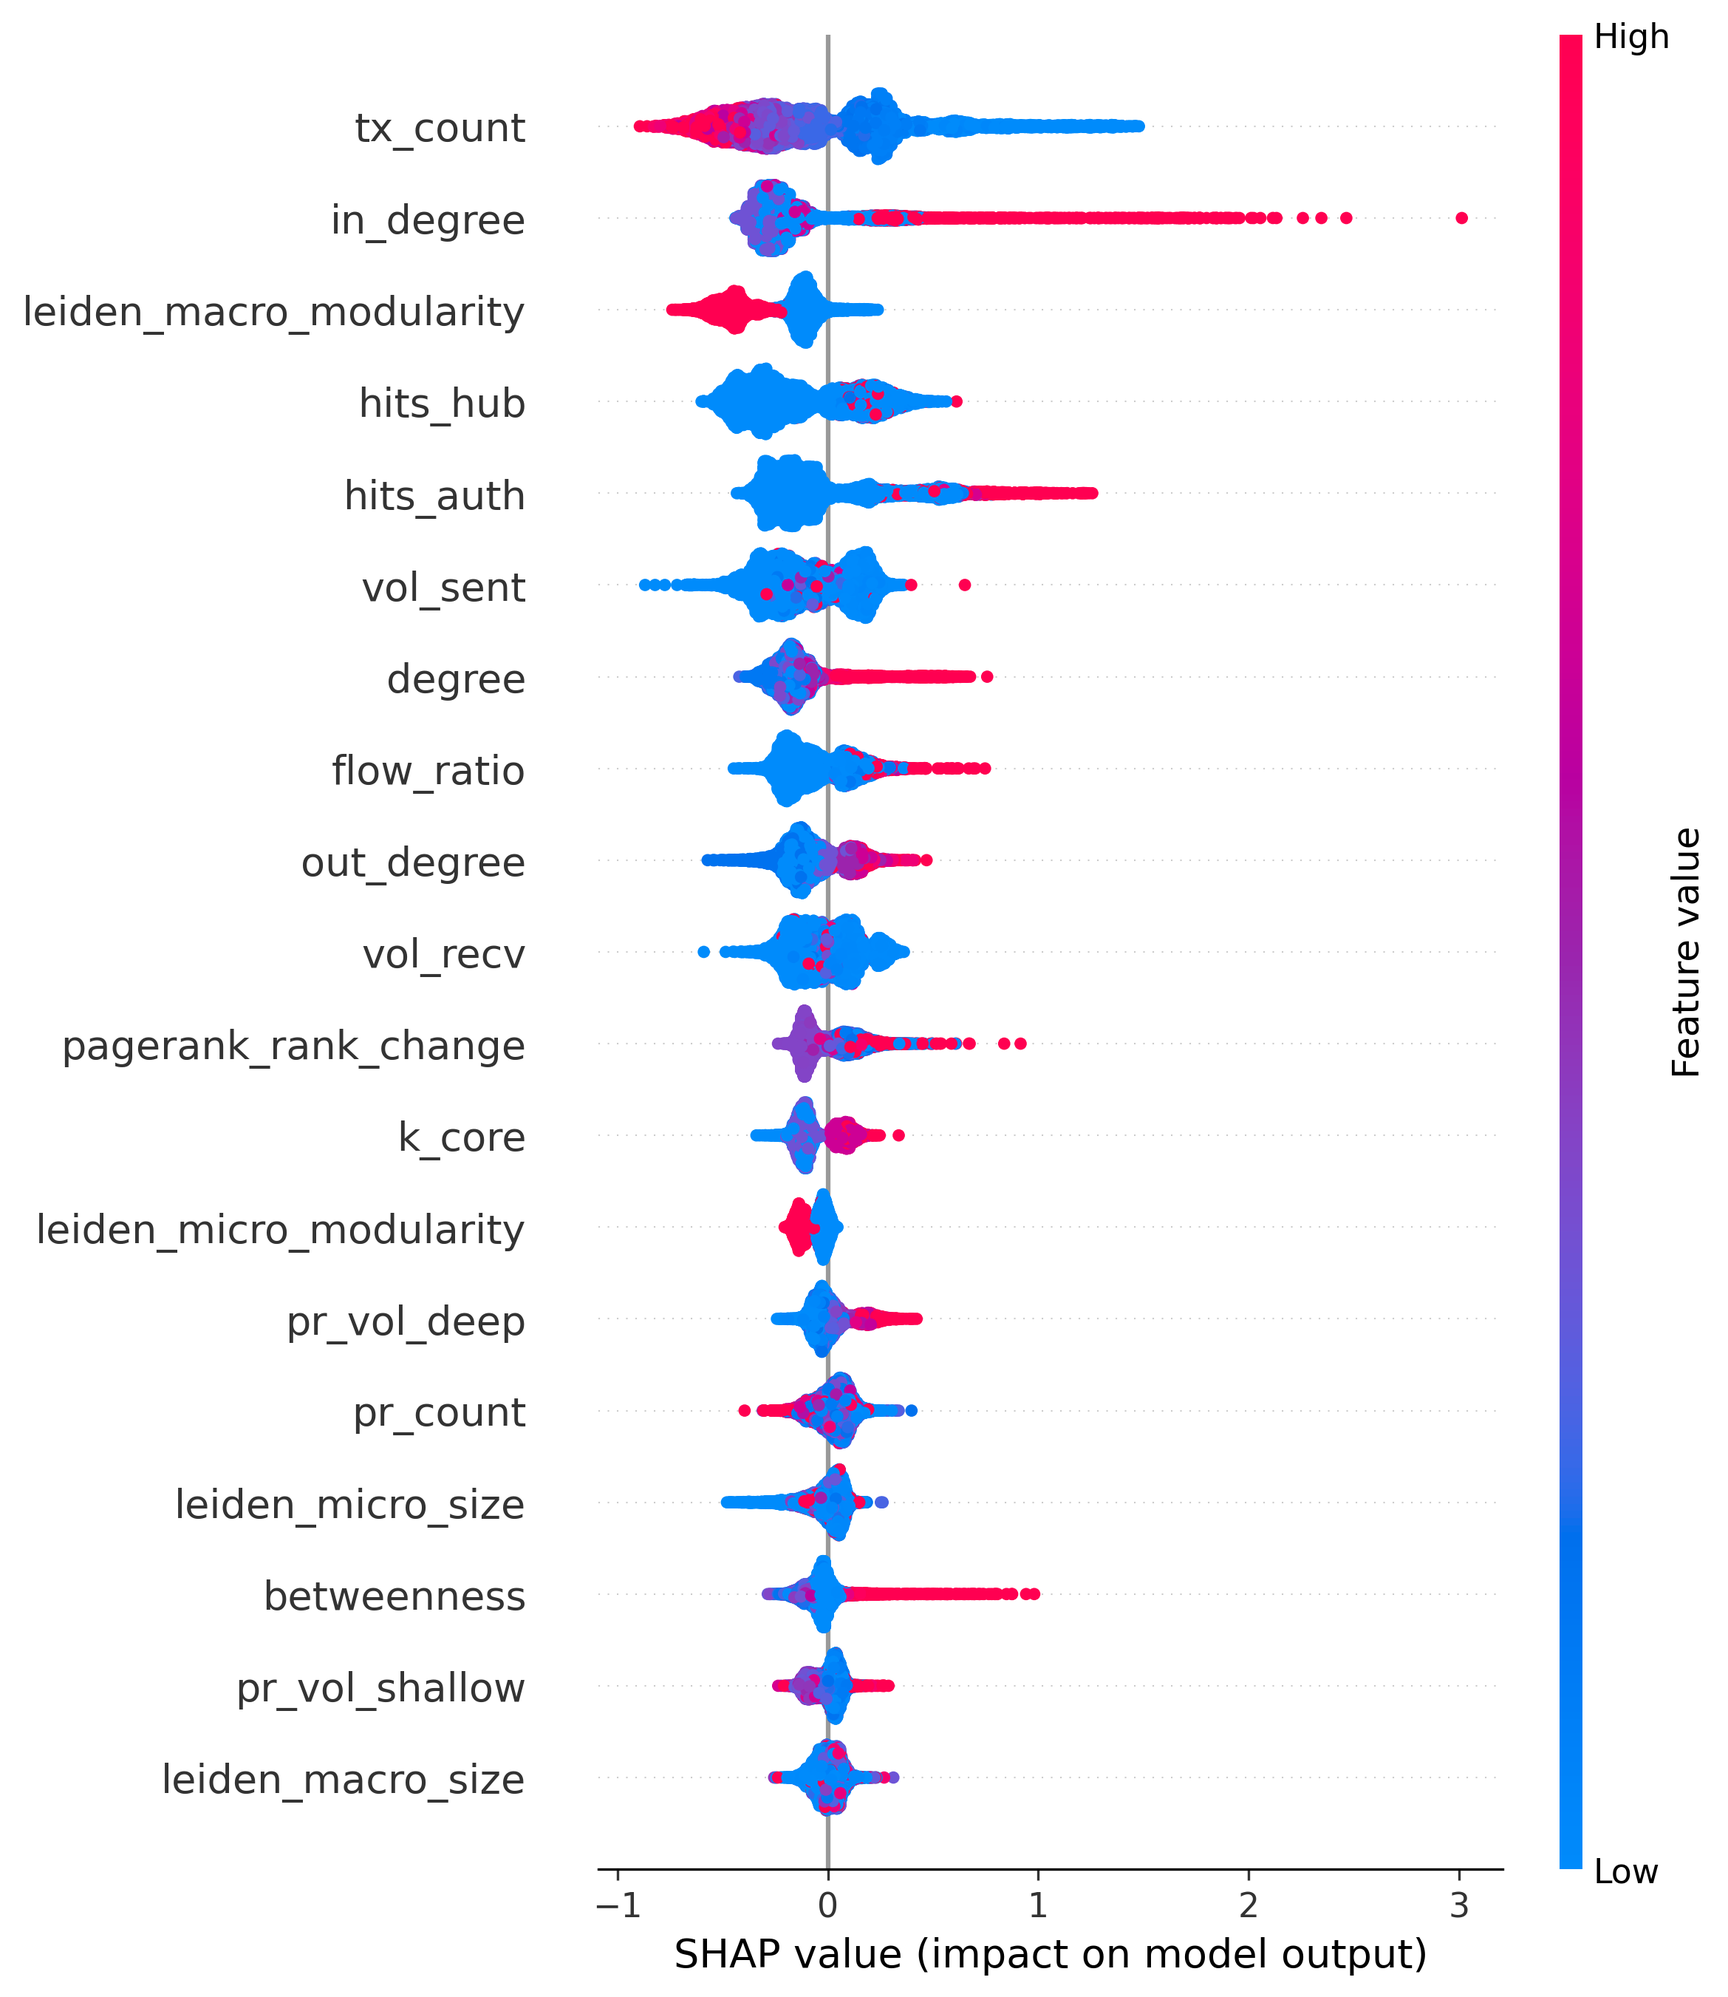
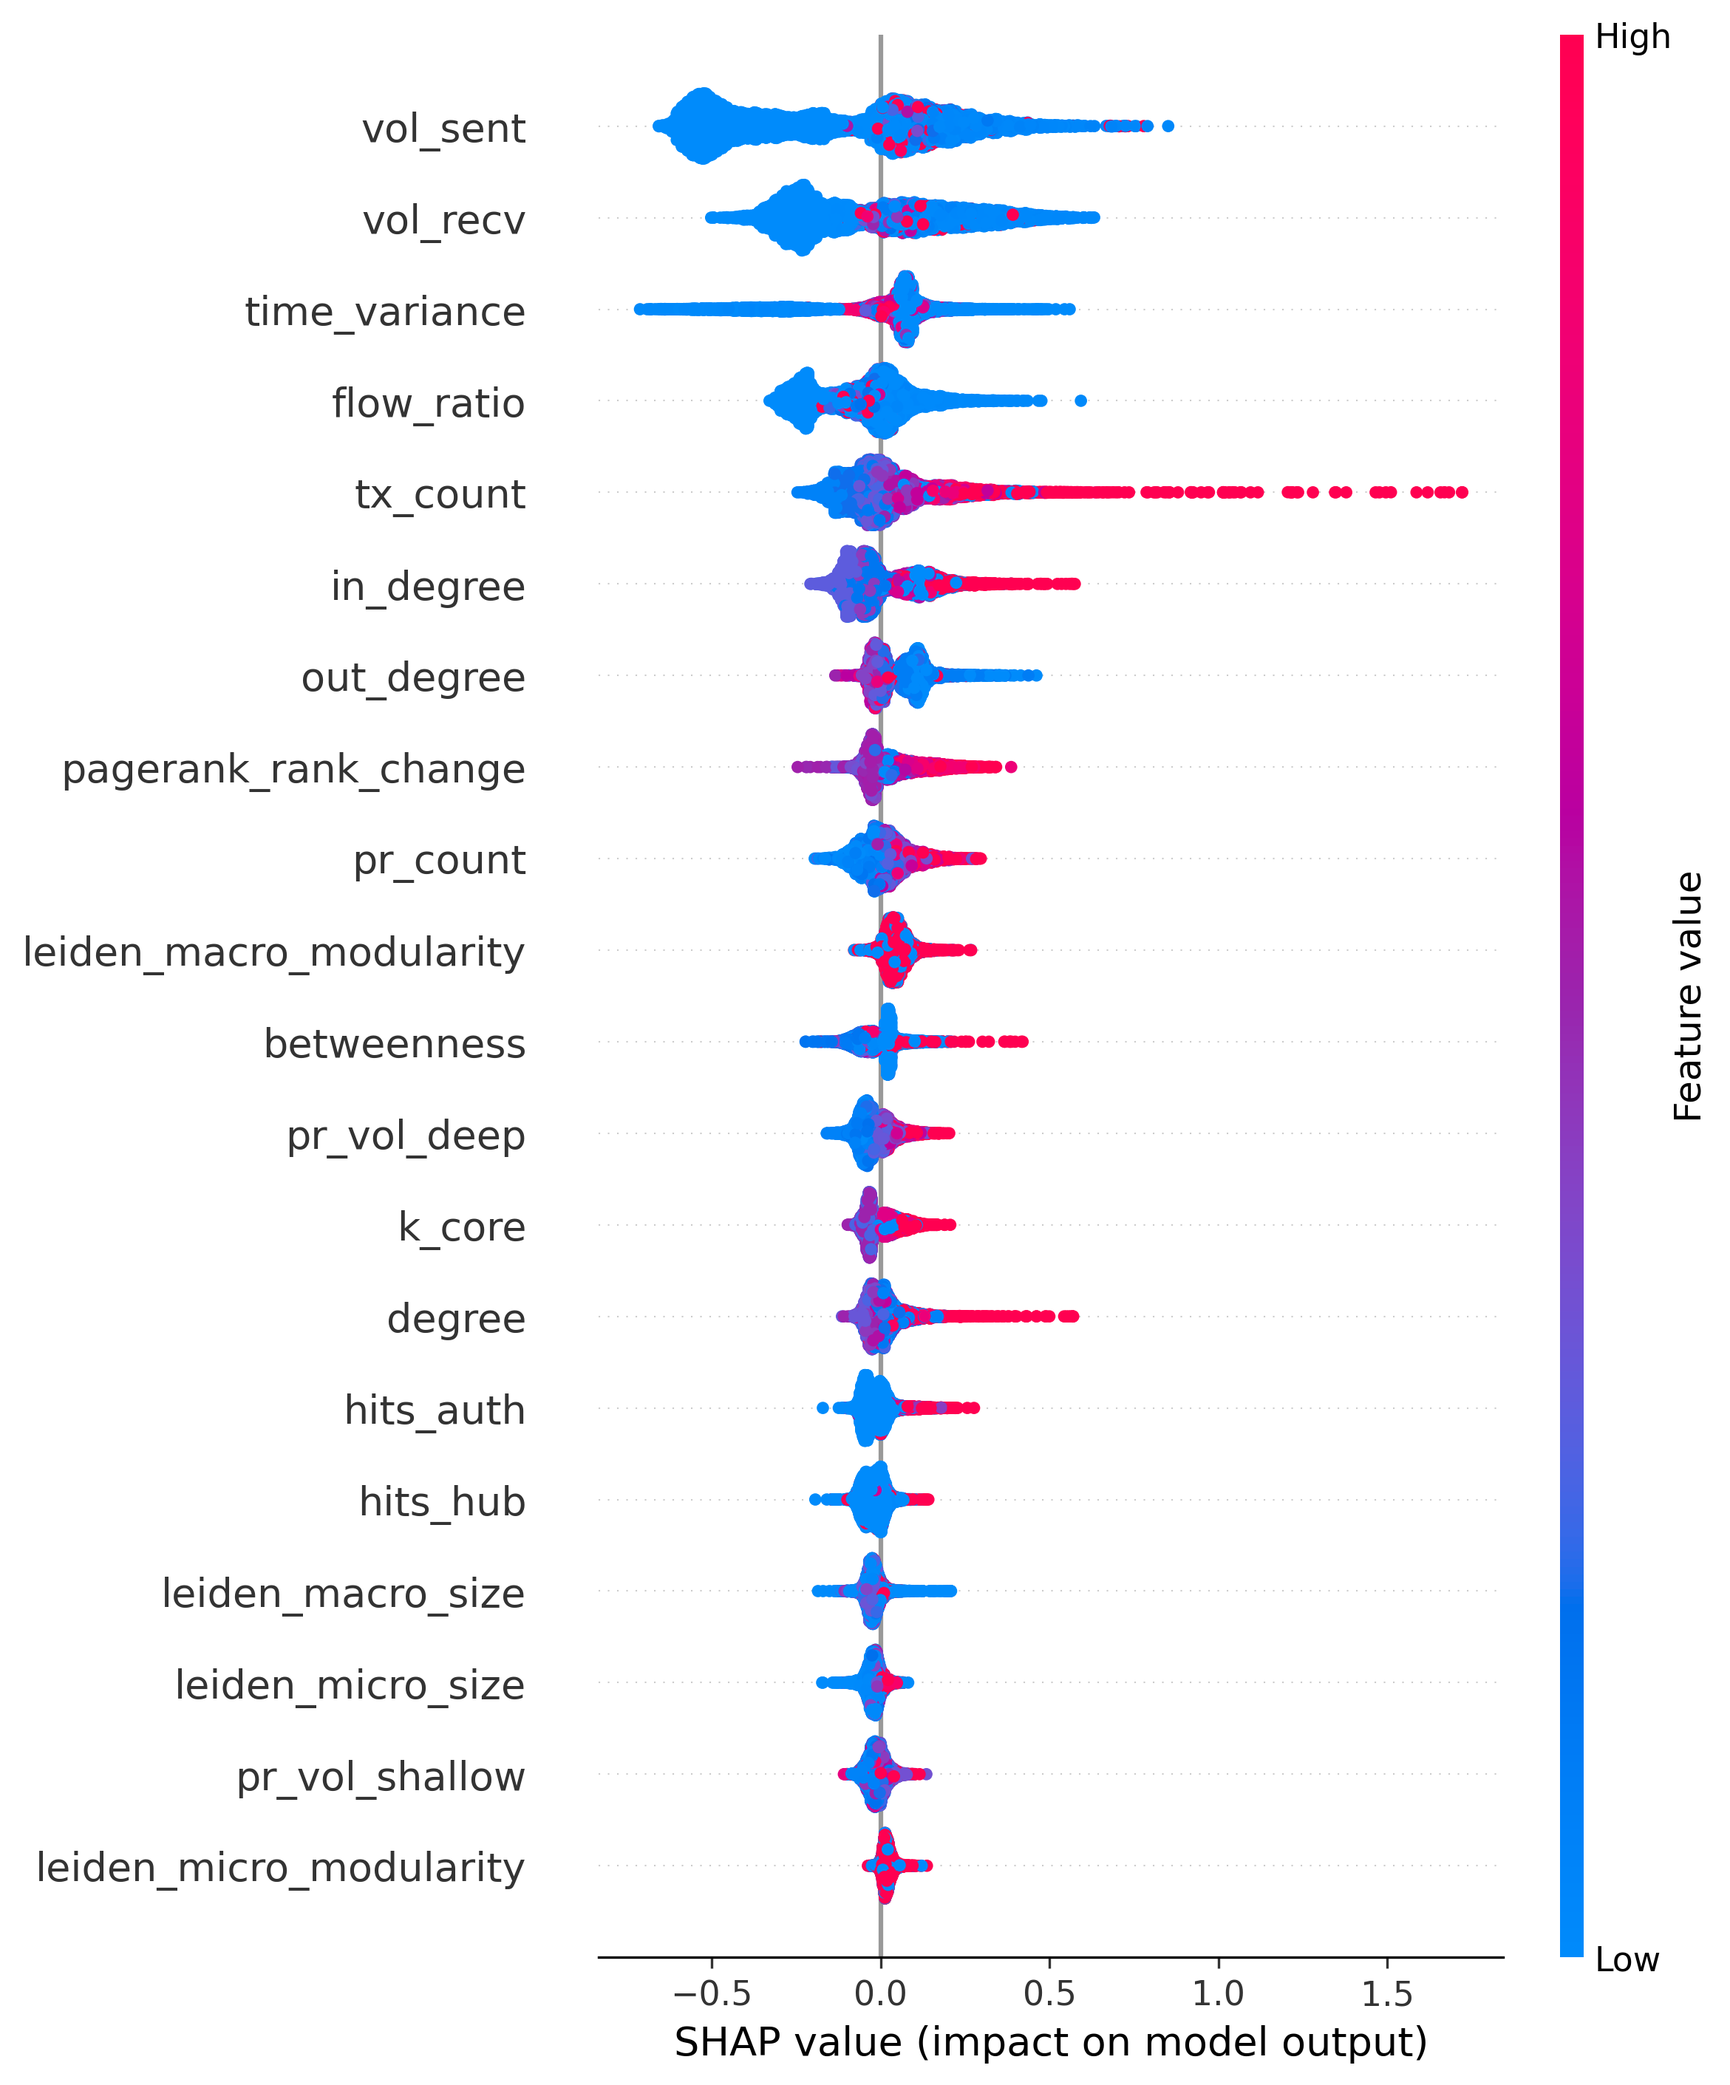
Prevent future leakage

diff --git a/scripts/03_extract_features.py b/scripts/03_extract_features.py
@@ -116,7 +116,8 @@ def process_window( # weirdnodes, ensemble, bank transactions papers
     bad_actors_up_to_date: set = run_flags.get("bad_actors", set()) # AMLworld, graph based anomaly survey
 
     features: list[dict] = []
-    for node in G.nodes():
+    # Iterate over target nodes transacting today, not the historical graph nodes
+    for node in day_nodes["entity_id"].unique():
         ns = node_stats.get(node, {})
         vol_s = ns.get("vol_sent", 0.0)
         vol_r = ns.get("vol_recv", 0.0)
@@ -135,9 +136,9 @@ def process_window( # weirdnodes, ensemble, bank transactions papers
             "leiden_micro_id": daily_metrics.get("leiden_micro", {}).get(node, {}).get("leiden_id", -1),
             "leiden_micro_size": daily_metrics.get("leiden_micro", {}).get(node, {}).get("leiden_size", 0),
             "leiden_micro_modularity": daily_metrics.get("leiden_micro", {}).get(node, {}).get("leiden_modularity", 0.0),
-            "degree": G.degree(node),
-            "in_degree": G.in_degree(node),
-            "out_degree": G.out_degree(node),
+            "degree": G.degree(node) if G.has_node(node) else 0,
+            "in_degree": G.in_degree(node) if G.has_node(node) else 0,
+            "out_degree": G.out_degree(node) if G.has_node(node) else 0,
             "vol_sent": vol_s,
             "vol_recv": vol_r,
             "tx_count": ns.get("tx_count", 0),
@@ -376,8 +377,8 @@ def main() -> None:
     print(f"Rank Stability: {'Enabled' if RUN_RANK_STABILITY else 'Disabled'}")
     print("=" * 60)
 
-    edges_path = DATA_PATH / "aggregated_edges.parquet"
-    nodes_path = DATA_PATH / "aggregated_nodes.parquet"
+    edges_path = DATA_PATH / "lookback_edges.parquet"
+    nodes_path = DATA_PATH / "target_nodes.parquet" 
     transactions_path = DATA_PATH / "1_filtered_transactions.parquet"
     accounts_path = DATA_PATH / "2_filtered_accounts.parquet"
     features_out = DATA_PATH / OUTPUT_FEATURES_FILE

diff --git a/src/config.py b/src/config.py
@@ -17,7 +17,7 @@ DATASET_SIZE: str = "SMALL"
 # Dataset-specific settings
 _DATASET_CONFIG = {
     "SMALL": {
-        "data_path": Path("data/LI_Small"),
+        "data_path": Path("data/HI_Small"),
         "window_days": 3,
         "pr_alpha_deep": 0.85,           # 6.6 hops expected walk
         "pr_alpha_shallow": 0.75,        # 4 hops expected walk
